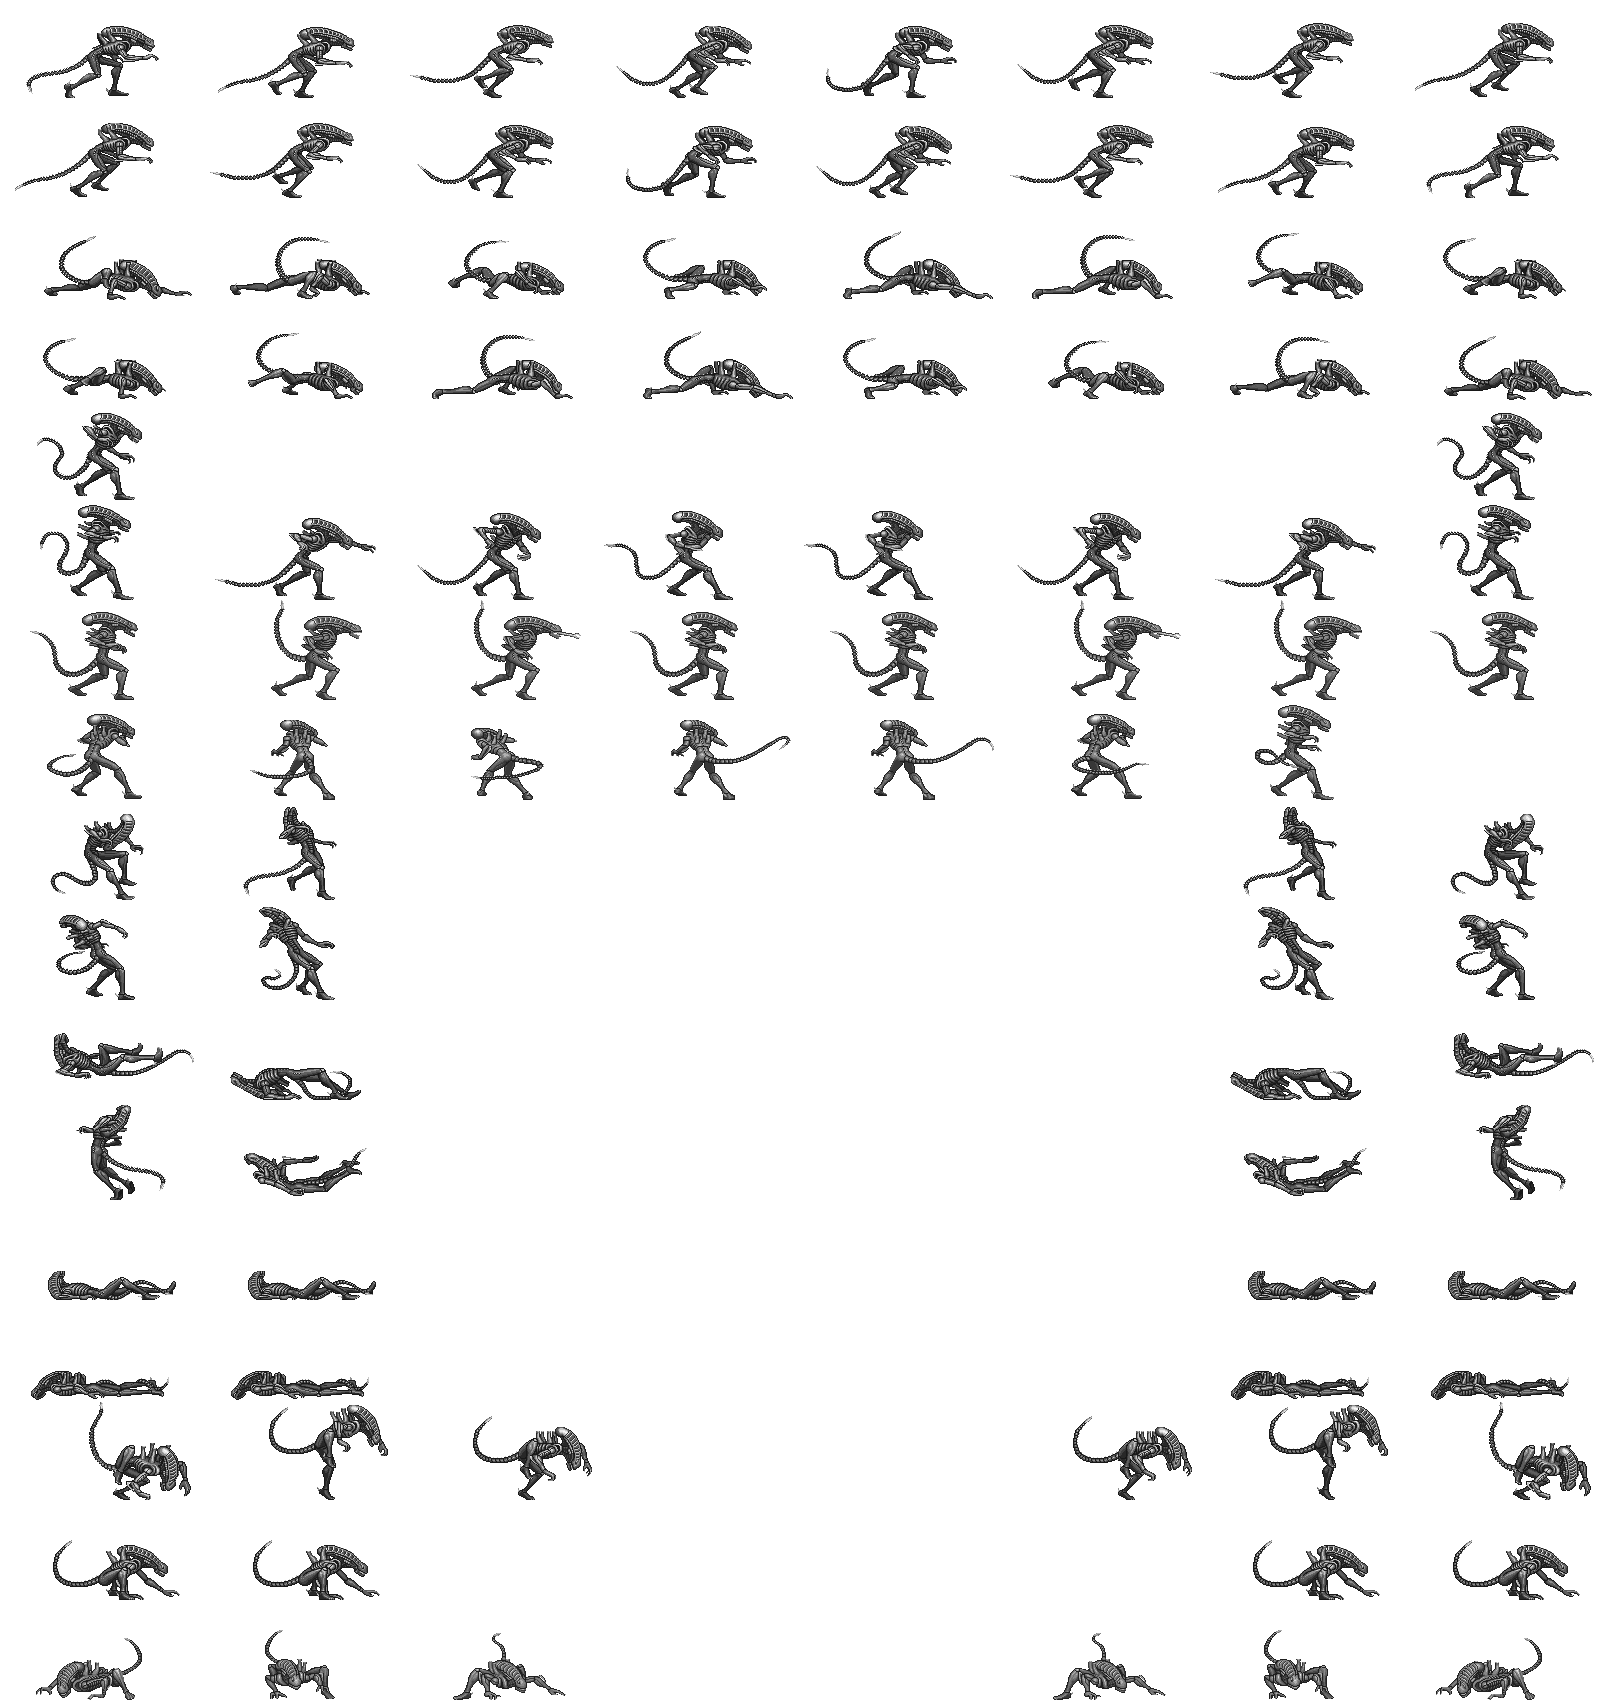
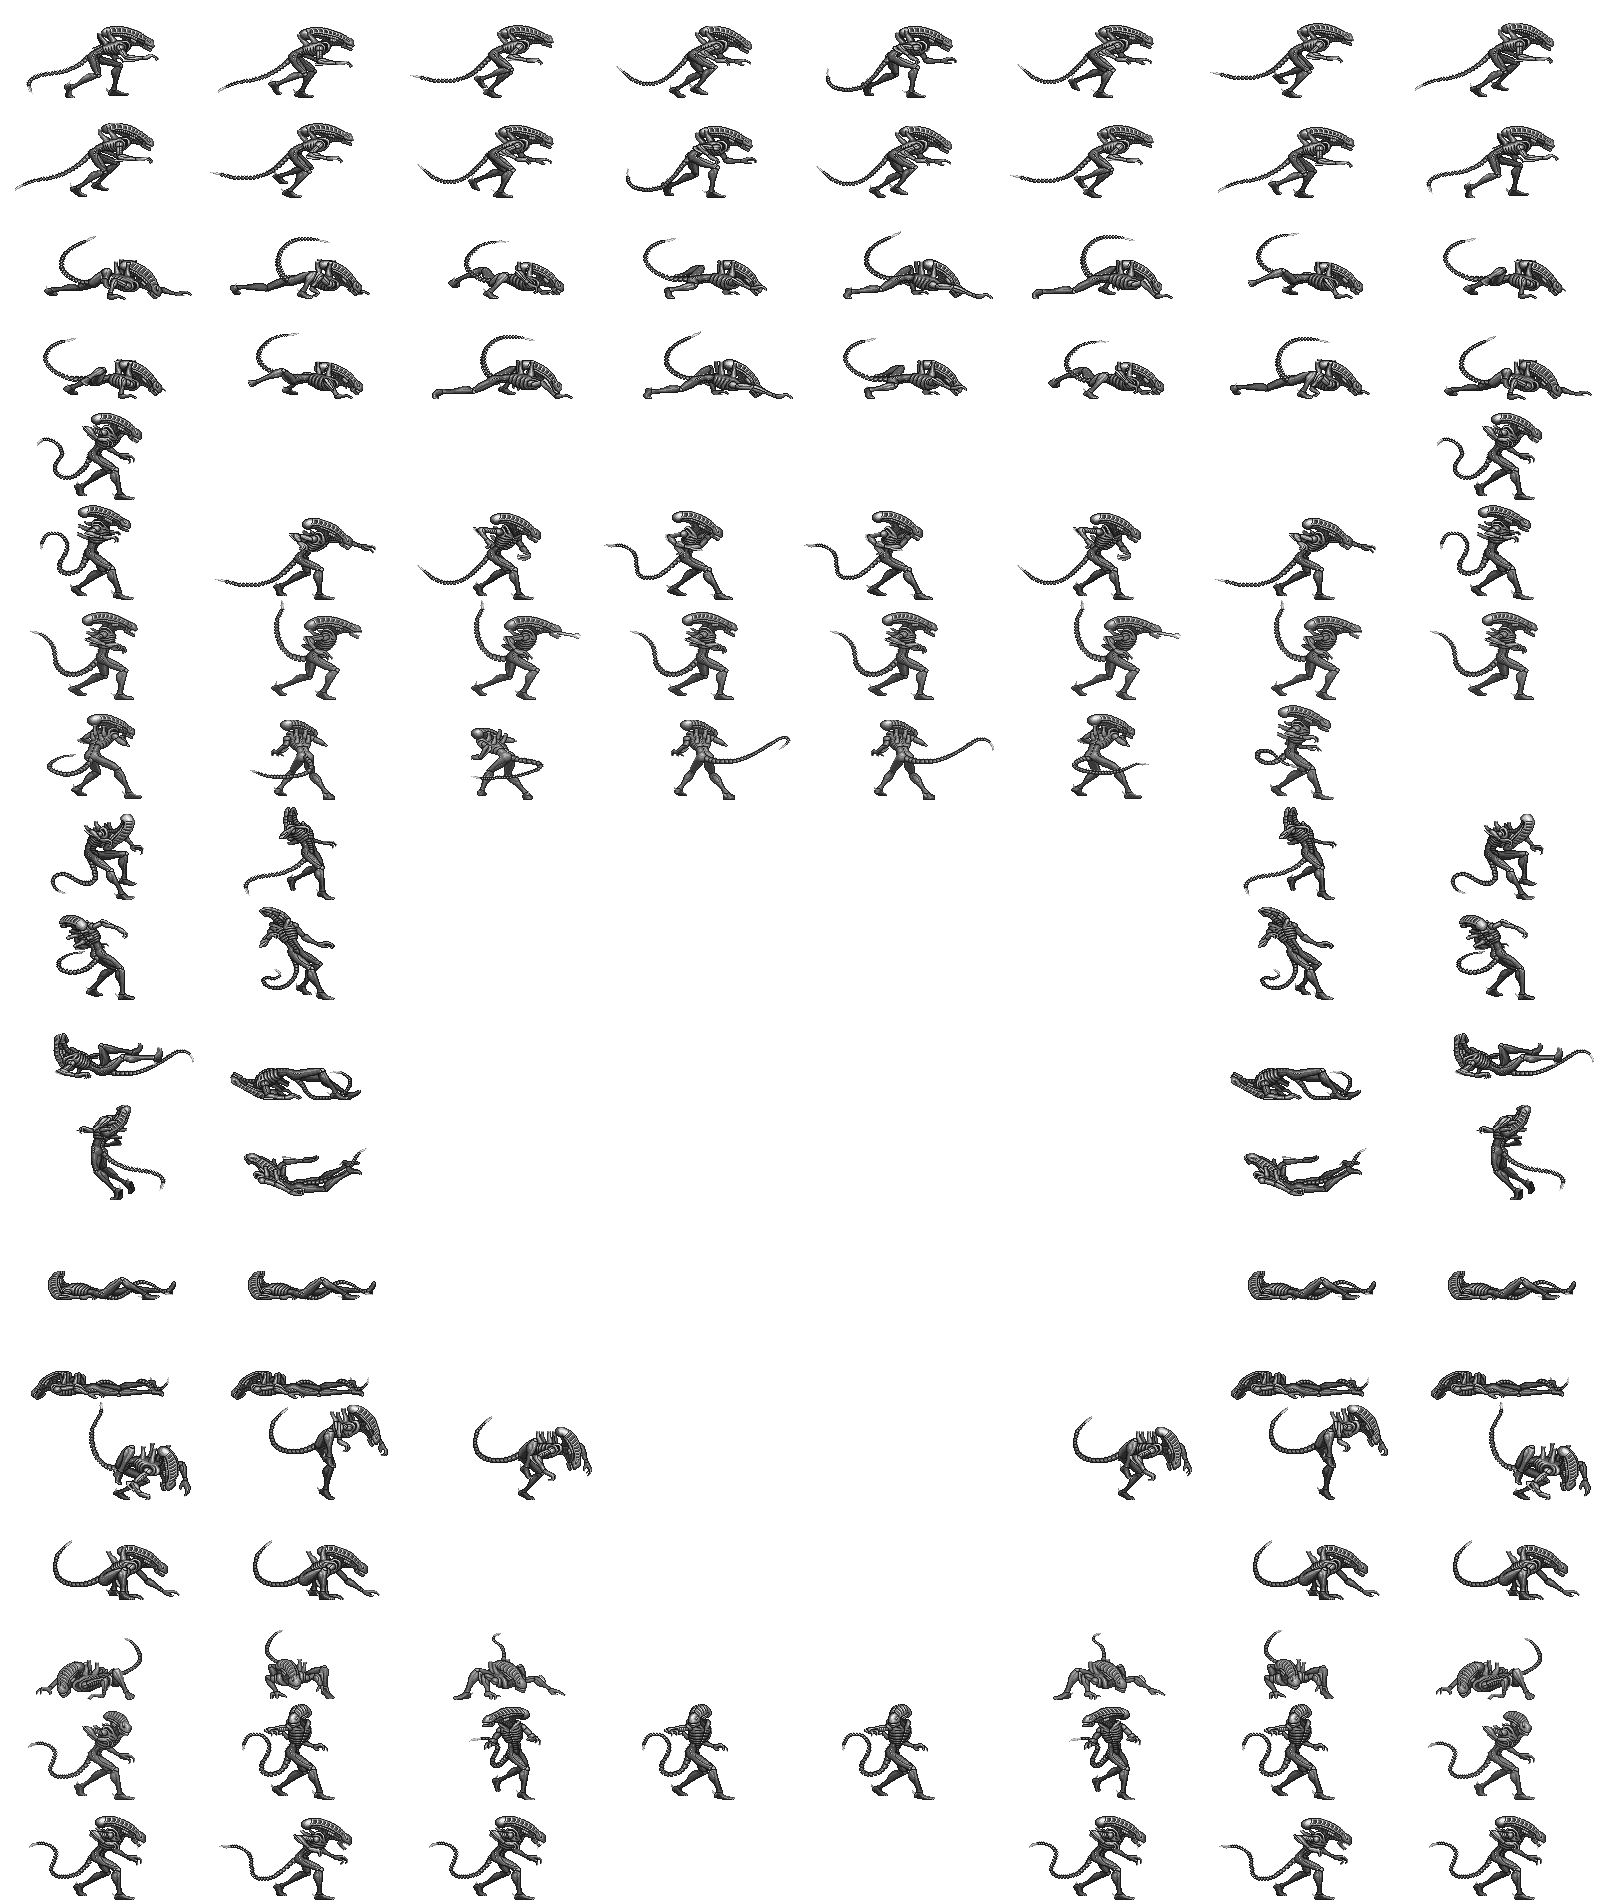
mob testing

diff --git a/demo/game/npc.js b/demo/game/npc.js
@@ -44,6 +44,8 @@ export default class Npc extends Component {
     this.isPunching = false;
     this.isBiting = false;
     this.isCrouchIdle = false;
+    this.isLookBack = false;
+    this.isSnarling = false;
     this.isWhiping = false;
     this.isHit = false;
     this.isDrop = false;
@@ -94,7 +96,7 @@ export default class Npc extends Component {
   loop = () => {
     const {store, npcIndex} = this.props;
 
-    if (!this.isJumping && !this.isPunching && !this.isBiting && !this.isWhiping && !this.isLeaving && !this.isHit && !this.isDrop && !this.isDown && !this.isLanding && !this.isCrouchIdle) {
+    if (!this.isJumping && !this.isPunching && !this.isBiting && !this.isWhiping && !this.isLeaving && !this.isHit && !this.isDrop && !this.isDown && !this.isLanding && !this.isCrouchIdle && !this.isLookBack && !this.isSnarling) {
       this.npcAction(this.body);
       if (this.isAmbush && this.state.spritePlaying === false) {
         this.isAmbush = false;
@@ -106,6 +108,14 @@ export default class Npc extends Component {
 
       if (this.isBiting && this.state.spritePlaying === false) {
         this.isBiting = false;
+      }
+
+      if (this.isLookBack && this.state.spritePlaying === false) {
+        this.isLookBack = false;
+      }
+
+      if (this.isSnarling && this.state.spritePlaying === false) {
+        this.isSnarling = false;
       }
 
       if (this.isCrouchIdle && this.state.spritePlaying === false) {
@@ -152,8 +162,6 @@ export default class Npc extends Component {
       }
     }
 
-
-
     if (store.npcPositions[npcIndex].y  < 370  && npcState !== 16 && npcState !== 14) {
       return this.crouchIdle();
     }
@@ -173,6 +181,14 @@ export default class Npc extends Component {
     }
 
     if (this.isFar()) {
+      if(Math.random()<.5 && this.state.hasStopped % 2 === 0 && npcState < 3) {
+        if(Math.random()<.2) {
+          return this.lookBack();
+        }
+        else {
+          return this.snarl();
+        }
+      }
       if (this.state.hasStopped % 2 > 0) {
         npcState = store.npcPositions[npcIndex].x < store.characterPosition.x ? 0 : 1;
       }
@@ -349,6 +365,26 @@ export default class Npc extends Component {
     }));
   };
 
+  lookBack = () => {
+    this.isLookBack = true;
+    this.setState(Object.assign({}, this.state, {
+      npcState: 17,
+      ticksPerFrame: 10,
+      hasStopped: this.state.hasStopped + 1,
+      repeat: false
+    }));
+  };
+
+  snarl = () => {
+    this.isSnarling = true;
+    this.setState(Object.assign({}, this.state, {
+      npcState: 18,
+      ticksPerFrame: 10,
+      hasStopped: this.state.hasStopped + 1,
+      repeat: false
+    }));
+  };
+
   crouchIdle = () => {
     const {store, npcIndex} = this.props;
     this.isCrouchIdle = true;
@@ -411,7 +447,9 @@ export default class Npc extends Component {
             1,
             2, // ambush
             1, // land
-            2
+            2, //16 crouchIdle
+            3, // 17 lookBack
+            2 // 18 snarl
             ]}
           offset={[0, 0]}
           tileWidth={200}

diff --git a/demo/presentation.js b/demo/presentation.js
@@ -29,7 +29,7 @@ export default class Presentation extends Component {
     super(props);
 
     this.state = {
-      gameState: 0,
+      gameState: 1, // 0 reset to intro screen
       slideIndex: 0,
     };
   }
